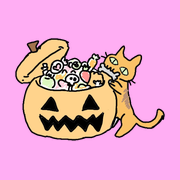
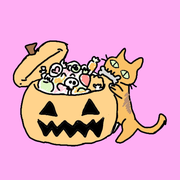
Hub: ícono de app a pantalla completa con el dibujo de Sofía
Claude-Session: https://claude.ai/code/session_01HEWaVzGkqrhq9G5UzBfi6L

Changed region(s): [[0.0556, 0.1944, 0.9444, 0.8333]]

diff --git a/index.html b/index.html
@@ -9,6 +9,7 @@
 <link rel="icon" type="image/png" sizes="32x32" href="favicon-32.png">
 <link rel="icon" type="image/png" sizes="256x256" href="img/kiut-logo.png">
 <link rel="apple-touch-icon" href="apple-touch-icon.png">
+<link rel="manifest" href="manifest.json">
 <meta property="og:image" content="https://kiut-studio.github.io/img/kiut-logo.png">
 <link href="https://fonts.googleapis.com/css2?family=Caveat:wght@600;700&family=Fredoka:wght@400;500;600&display=swap" rel="stylesheet">
 <style>
